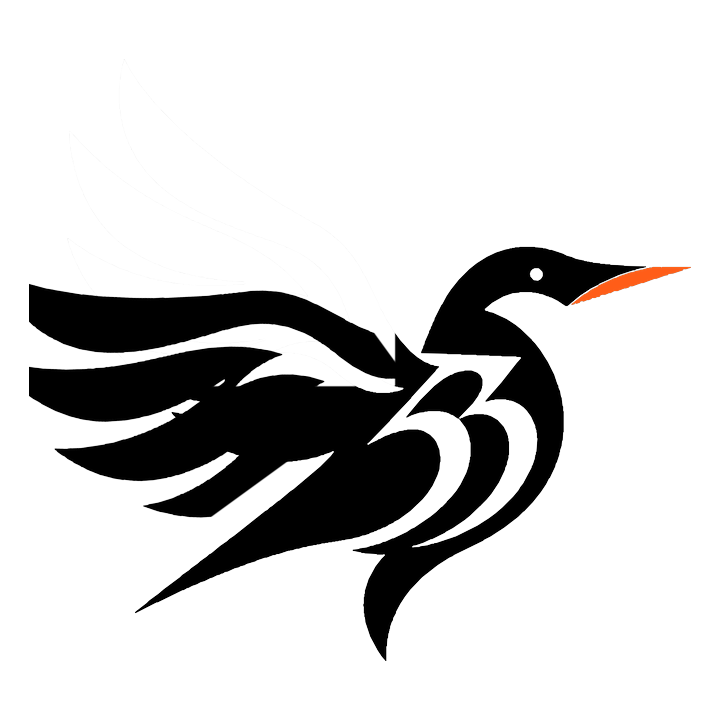
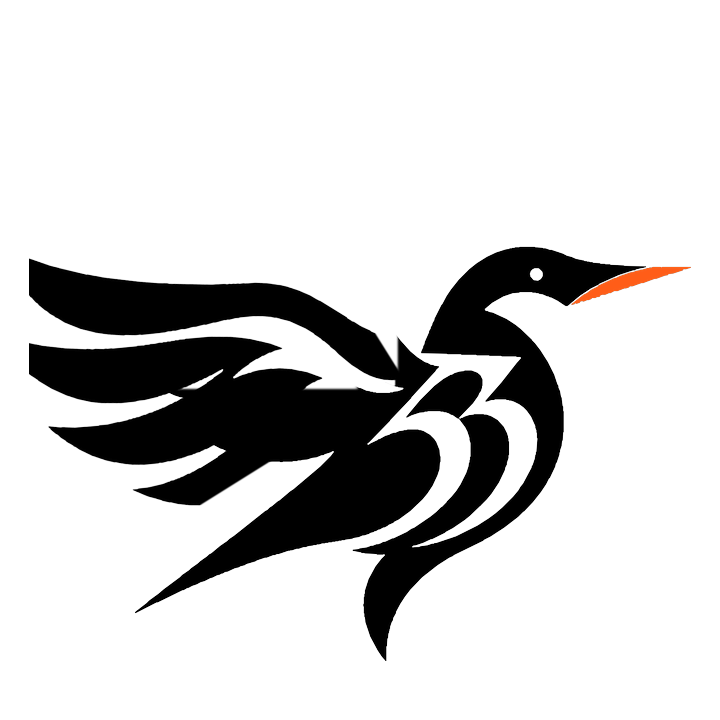
Retune Intro flap from the orange-beak reference pose.
Rebuild flap frames from the provided wings-up mark, crossfade between frames with an asymmetric up/down stroke, and slow the beat so Intro flight reads less mechanical.

diff --git a/src/Label33.Web/wwwroot/js/brand.js b/src/Label33.Web/wwwroot/js/brand.js
@@ -24,84 +24,102 @@
     return -(Math.cos(Math.PI * x) - 1) / 2;
   }
 
-  /**
-   * Asymmetric wing beat — fast powerful downstroke, slower recovery.
-   * Returns degrees for the wing layer around the shoulder pivot.
-   */
-  function wingStrokeAngle(phase01) {
-    const p = ((phase01 % 1) + 1) % 1;
-    if (p < 0.38) {
-      const u = easeOutQuad(p / 0.38);
-      return lerp(34, -36, u);
-    }
-    const u = easeInOutSine((p - 0.38) / 0.62);
-    return lerp(-36, 34, u);
+  function getFrames(root) {
+    return root ? Array.from(root.querySelectorAll('.diyar-flap__frame')) : [];
   }
 
   /**
-   * Continuous glide path shaped for a logo mark, not a sprite character:
-   * rise in → soft soar above the mark → peel away.
+   * Soft crossfade between neighboring flap frames.
+   * phase: continuous index in [0, frameCount-1].
    */
+  function setFlapBlend(root, phase) {
+    const frames = getFrames(root);
+    if (!frames.length) return;
+    const n = frames.length;
+    const max = n - 1;
+    const p = clamp(phase, 0, max);
+    const i = Math.floor(p);
+    const j = Math.min(i + 1, max);
+    const t = p - i;
+    const s = t * t * (3 - 2 * t);
+    frames.forEach((img, idx) => {
+      let op = 0;
+      if (idx === i && idx === j) op = 1;
+      else if (idx === i) op = 1 - s;
+      else if (idx === j) op = s;
+      img.style.opacity = String(op);
+      img.classList.toggle('is-active', op > 0.45);
+    });
+    root.dataset.frame = String(i + 1);
+  }
+
+  /**
+   * Frames are ordered down → up (01 lowest … 04 = reference wings-up).
+   * Fast downstroke (up→down), slower recovery (down→up).
+   */
+  function flapPhase(elapsedSec, hz, frameCount) {
+    const n = Math.max(frameCount, 2);
+    const max = n - 1;
+    const linear = ((elapsedSec * hz) % 1 + 1) % 1;
+    if (linear < 0.36) {
+      const t = easeOutQuad(linear / 0.36);
+      return lerp(max, 0, t); // up → down
+    }
+    const t = easeInOutSine((linear - 0.36) / 0.64);
+    return lerp(0, max, t); // down → up
+  }
+
+  /** Calm mark flight: climb → soft soar → exit */
   function flightPose(t) {
-    if (t < 0.34) {
-      const u = easeInOutCubic(t / 0.34);
+    if (t < 0.36) {
+      const u = easeInOutCubic(t / 0.36);
       return {
-        x: -42 + u * 80,
-        y: 58 - u * 34,
-        flapHz: 3.2,
-        flapAmp: 1,
-        bank: lerp(-18, -4, u),
-        scale: lerp(0.78, 1.02, u),
-        phase: 'enter',
+        x: -40 + u * 78,
+        y: 56 - u * 32,
+        flapHz: 1.9,
+        bank: lerp(-12, -3, u),
+        scale: lerp(0.84, 1.04, u),
       };
     }
-    if (t < 0.58) {
-      const u = (t - 0.34) / 0.24;
-      const drift = Math.sin(u * Math.PI) * 1.4;
-      const breath = Math.sin(u * Math.PI * 2) * 0.55;
+    if (t < 0.6) {
+      const u = (t - 0.36) / 0.24;
+      const breath = Math.sin(u * Math.PI * 2) * 0.4;
       return {
-        x: 38 + drift,
+        x: 38 + Math.sin(u * Math.PI) * 1.0,
         y: 24 + breath,
-        flapHz: 1.15,
-        flapAmp: 0.28,
-        bank: -2 + Math.sin(u * Math.PI * 2) * 2.2,
-        scale: 1.05,
-        phase: 'soar',
+        flapHz: 0.85,
+        bank: -1.2 + Math.sin(u * Math.PI * 2) * 1.4,
+        scale: 1.06,
       };
     }
-    const u = easeInOutCubic((t - 0.58) / 0.42);
+    const u = easeInOutCubic((t - 0.6) / 0.4);
     return {
-      x: 38 + u * 72,
-      y: 24 - u * 30,
-      flapHz: lerp(2.4, 3.6, u),
-      flapAmp: lerp(0.7, 1, u),
-      bank: lerp(2, 16, u),
-      scale: lerp(1.02, 0.88, u),
-      phase: 'exit',
+      x: 38 + u * 70,
+      y: 24 - u * 28,
+      flapHz: lerp(1.55, 2.15, u),
+      bank: lerp(2, 11, u),
+      scale: lerp(1.03, 0.9, u),
     };
   }
 
-  function getWing(root) {
-    return root?.querySelector?.('.diyar-fly__wing') || null;
-  }
-
-  function setWingAngle(root, deg) {
-    const wing = getWing(root);
-    if (!wing) return;
-    wing.style.transform = `rotate(${deg}deg)`;
-  }
-
-  function runLiveFlap(root, { hz = 2.2, amp = 1 } = {}) {
-    if (!root || !getWing(root)) return () => {};
+  function runSpriteFlap(root, { hz = 1.45 } = {}) {
+    const frames = getFrames(root);
+    if (!root || frames.length <= 1) {
+      if (frames[0]) frames[0].style.opacity = '1';
+      return () => {};
+    }
     let raf = 0;
     let stopped = false;
     const start = performance.now();
 
+    frames.forEach((img) => {
+      img.style.opacity = '0';
+    });
+
     function tick(now) {
       if (stopped) return;
       const elapsed = (now - start) / 1000;
-      const phase = elapsed * hz;
-      setWingAngle(root, wingStrokeAngle(phase) * amp);
+      setFlapBlend(root, flapPhase(elapsed, hz, frames.length));
       raf = requestAnimationFrame(tick);
     }
 
@@ -113,16 +131,20 @@
   }
 
   function runIntroFlight(birdEl, onDone) {
-    const root = birdEl.querySelector('[data-fly-root]') || birdEl.querySelector('.diyar-fly');
-    const duration = 7800;
+    const root = birdEl.querySelector('[data-flap-root]') || birdEl.querySelector('.diyar-flap');
+    const frames = getFrames(root);
+    const frameCount = Math.max(frames.length, 1);
+    const duration = 8200;
     const start = performance.now();
     let raf = 0;
     let stopped = false;
-    let prevX = null;
-    let prevY = null;
-    let smoothBank = -14;
     let flapClock = 0;
     let lastNow = start;
+    let smoothBank = -10;
+
+    frames.forEach((img) => {
+      img.style.opacity = '0';
+    });
 
     function tick(now) {
       if (stopped) return;
@@ -133,29 +155,19 @@
       const pose = flightPose(raw);
 
       flapClock += dt * pose.flapHz;
-      const wingDeg = wingStrokeAngle(flapClock) * pose.flapAmp;
-      setWingAngle(root, wingDeg);
+      const phase = flapPhase(flapClock, 1, frameCount);
+      setFlapBlend(root, phase);
 
-      // Lift follows downstroke: body rises as wing sweeps down
-      const stroke = ((flapClock % 1) + 1) % 1;
-      const downForce = stroke < 0.38 ? easeOutQuad(stroke / 0.38) : 0;
-      const lift = -downForce * 1.35 * pose.flapAmp;
+      // Lift on downstroke (phase moving toward frame 0)
+      const max = Math.max(frameCount - 1, 1);
+      const downAmount = 1 - phase / max; // 1 at down, 0 at up
+      const lift = -downAmount * 1.05;
 
-      // Smooth bank toward travel direction
-      if (prevX != null) {
-        const vx = pose.x - prevX;
-        const vy = pose.y - prevY;
-        const travelBank = clamp(vx * 0.55 + vy * 0.35, -22, 22);
-        smoothBank = lerp(smoothBank, pose.bank * 0.55 + travelBank * 0.45, 0.12);
-      } else {
-        smoothBank = pose.bank;
-      }
-      prevX = pose.x;
-      prevY = pose.y;
+      smoothBank = lerp(smoothBank, pose.bank, 0.1);
 
       let opacity = 1;
       if (raw < 0.06) opacity = raw / 0.06;
-      else if (raw > 0.88) opacity = (1 - raw) / 0.12;
+      else if (raw > 0.9) opacity = (1 - raw) / 0.1;
 
       birdEl.style.left = `${pose.x}%`;
       birdEl.style.top = `${pose.y + lift}%`;
@@ -177,9 +189,9 @@
     };
   }
 
-  function idleFlaps(root) {
-    root.querySelectorAll('.diyar-fly[data-flap="idle"]').forEach((el) => {
-      runLiveFlap(el, { hz: 1.65, amp: 0.72 });
+  function idleFlaps(doc) {
+    doc.querySelectorAll('.diyar-flap[data-flap="idle"]').forEach((el) => {
+      runSpriteFlap(el, { hz: 1.35 });
     });
   }
 
@@ -204,7 +216,7 @@
       if (bird) {
         stopFlight = runIntroFlight(bird, () => finishIntro(stopFlight));
       } else {
-        window.setTimeout(() => finishIntro(null), 7800);
+        window.setTimeout(() => finishIntro(null), 8200);
       }
       skip?.addEventListener('click', () => finishIntro(stopFlight));
     }

diff --git a/src/Label33.Web/wwwroot/css/brand.css b/src/Label33.Web/wwwroot/css/brand.css
@@ -319,8 +319,8 @@ button, input, select { font: inherit; color: inherit; }
 
 .intro__bird {
   position: absolute;
-  left: -42%;
-  top: 58%;
+  left: -40%;
+  top: 56%;
   width: min(40vw, 268px);
   height: auto;
   aspect-ratio: 1 / 1;
@@ -333,7 +333,7 @@ button, input, select { font: inherit; color: inherit; }
   z-index: 3;
 }
 
-/* Live orange-beak Diyar — body + pivoting wing */
+/* Live orange-beak Diyar — body + pivoting wing (optional / Diyar page) */
 .diyar-fly {
   position: relative;
   width: 100%;
@@ -353,7 +353,7 @@ button, input, select { font: inherit; color: inherit; }
 }
 
 .diyar-fly__wing {
-  transform-origin: 48.09% 46.49%;
+  transform-origin: 48.25% 46.81%;
   will-change: transform;
 }
 
